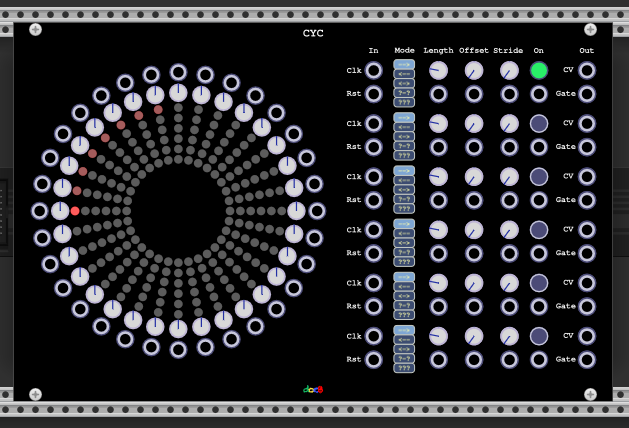
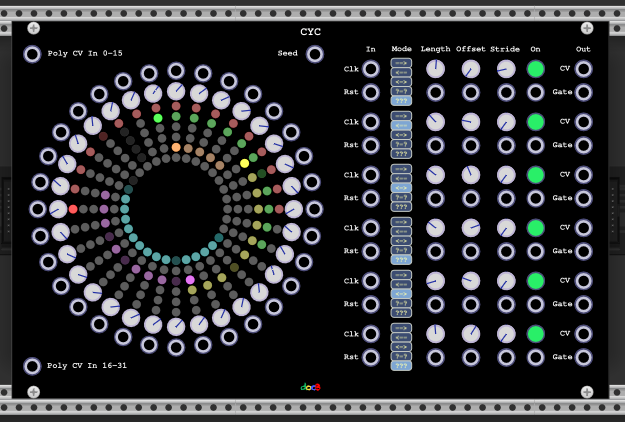
updated readme and enhancements

Changed region(s): [[0.0, 0.0, 1.0, 0.9858], [0.0, 0.154, 0.5168, 0.8626]]

diff --git a/src/CYC.cpp b/src/CYC.cpp
@@ -137,11 +137,6 @@ struct Track {
   }
 
   float getCV(int step) {
-    if(module->inputs[M::CV_INPUT+step].isConnected()) {
-      float v=module->inputs[M::CV_INPUT+step].getVoltage();
-      module->getParamQuantity(M::CV_PARAM+step)->setValue(v);
-      return v;
-    }
     return module->params[M::CV_PARAM+step].getValue();
   }
 
@@ -150,6 +145,14 @@ struct Track {
       bool advance=false;
       if(rstTrigger.process(module->inputs[M::RST_INPUT+nr].getVoltage())) {
         rstPulse.trigger(1e-3f);
+        float seedParam=0;
+        if(module->inputs[M::SEED_INPUT].isConnected()) {
+          seedParam=module->inputs[M::SEED_INPUT].getVoltage(nr);
+          seedParam = floorf(seedParam*10000)/10000;
+          seedParam/=10.f;
+        }
+        auto seedInput = (unsigned long long)(floor((double)seedParam*(double)ULONG_MAX));
+        rnd.reset(seedInput);
         reset();
         advance=true;
       }
@@ -215,7 +218,7 @@ struct CYC : Module {
     RUN_MODE_PARAM,OFFSET_PARAM=RUN_MODE_PARAM+NUM_TRACK,LENGTH_PARAM=OFFSET_PARAM+NUM_TRACK,STRIDE_PARAM=LENGTH_PARAM+NUM_TRACK,TRACK_ON_PARAM=STRIDE_PARAM+NUM_TRACK,ON_OFF_PARAM=TRACK_ON_PARAM+NUM_TRACK,CV_PARAM=ON_OFF_PARAM+NUM_TRACK*32,PARAMS_LEN=CV_PARAM+32
   };
   enum InputId {
-    CLK_INPUT,RST_INPUT=CLK_INPUT+NUM_TRACK,OFFSET_INPUT=RST_INPUT+NUM_TRACK,LENGTH_INPUT=OFFSET_INPUT+NUM_TRACK,STRIDE_INPUT=LENGTH_INPUT+NUM_TRACK,CV_INPUT=STRIDE_INPUT+NUM_TRACK,INPUTS_LEN=CV_INPUT+32
+    CLK_INPUT,RST_INPUT=CLK_INPUT+NUM_TRACK,OFFSET_INPUT=RST_INPUT+NUM_TRACK,LENGTH_INPUT=OFFSET_INPUT+NUM_TRACK,STRIDE_INPUT=LENGTH_INPUT+NUM_TRACK,CV_INPUT=STRIDE_INPUT+NUM_TRACK,CV_POLY_0_15_INPUT=CV_INPUT+32,CV_POLY_16_31_INPUT,SEED_INPUT,INPUTS_LEN
   };
   enum OutputId {
     CV_OUTPUT,GATE_OUTPUT=CV_OUTPUT+NUM_TRACK,OUTPUTS_LEN=GATE_OUTPUT+NUM_TRACK
@@ -230,11 +233,15 @@ struct CYC : Module {
                                 {this,4},
                                 {this,5}};
   RND rnd;
-
+  float min=-2;
+  float max=2;
+  bool quantize=false;
+  int dirty=0; // dirty hack
+  dsp::ClockDivider paramDivider;
   CYC() {
     config(PARAMS_LEN,INPUTS_LEN,OUTPUTS_LEN,LIGHTS_LEN);
     for(int k=0;k<32;k++) {
-      configParam(CV_PARAM+k,-2,2,0,"CV "+std::to_string(k+1));
+      configParam(CV_PARAM+k,min,2,max,"CV "+std::to_string(k+1));
 
       configInput(CV_INPUT+k,"CV "+std::to_string(k+1));
       for(int j=0;j<NUM_TRACK;j++) {
@@ -255,9 +262,28 @@ struct CYC : Module {
       configInput(STRIDE_INPUT+k,"Stride "+std::to_string(k+1));
       configSwitch(TRACK_ON_PARAM+k,0,1,k==0?1:0,"Track "+std::to_string(k+1),{"Off","On"});
     }
+    configInput(CV_POLY_0_15_INPUT,"Poly CV 0-15");
+    configInput(CV_POLY_16_31_INPUT,"Poly CV 0-15");
+    paramDivider.setDivision(32);
   }
 
   void process(const ProcessArgs &args) override {
+    if(paramDivider.process()) {
+      for(int step=0;step<32;step++) {
+        if(step<16&&inputs[CV_POLY_0_15_INPUT].isConnected()) {
+          float v=inputs[CV_POLY_0_15_INPUT].getVoltage(step);
+          getParamQuantity(CV_PARAM+step)->setValue(v);
+        }
+        if(step>=16&&inputs[CV_POLY_16_31_INPUT].isConnected()) {
+          float v=inputs[CV_POLY_16_31_INPUT].getVoltage(step-16);
+          getParamQuantity(CV_PARAM+step)->setValue(v);
+        }
+        if(inputs[CV_INPUT+step].isConnected()) {
+          float v=inputs[CV_INPUT+step].getVoltage();
+          getParamQuantity(CV_PARAM+step)->setValue(v);
+        }
+      }
+    }
     for(int k=0;k<NUM_TRACK;k++) {
       tracks[k].process(args);
     }
@@ -269,6 +295,18 @@ struct CYC : Module {
     }
   }
 
+  void reconfig() {
+    for(int nr=0;nr<32;nr++) {
+      float value=getParamQuantity(CV_PARAM+nr)->getValue();
+      if(value>max)
+        value=max;
+      if(value<min)
+        value=min;
+      configParam(CV_PARAM+nr,min,max,0,"CV "+std::to_string(nr+1));
+      getParamQuantity(CV_PARAM+nr)->setValue(value);
+      dirty=32;
+    }
+  }
 
 };
 template <typename TBase = app::ModuleLightWidget>
@@ -371,7 +409,9 @@ struct CYCWidget : ModuleWidget {
       float x=cosf(alpha);
       float y=-sinf(alpha);
       addInput(createInputCentered<SmallPort>(mm2px(Vec(x*47+cx,y*47+cy)),module,CYC::CV_INPUT+(31-k)));
-      addParam(createParamCentered<TrimbotWhite>(mm2px(Vec(x*40+cx,y*40+cy)),module,CYC::CV_PARAM+(31-k)));
+      auto cvKnob=createParamCentered<MKnob<CYC>>(mm2px(Vec(x*40+cx,y*40+cy)),module,CYC::CV_PARAM+(31-k));
+      cvKnob->module=module;
+      addParam(cvKnob);
       int j=0;
       addParam(createParamCentered<SmallGrayRoundButton>(mm2px(Vec(x*(r-(d*j))+cx,y*(r-(d*j))+cy)),module,CYC::ON_OFF_PARAM+j*32+(31-k)));
       j++;
@@ -384,23 +424,6 @@ struct CYCWidget : ModuleWidget {
       addParam(createParamCentered<SmallGrayRoundButton>(mm2px(Vec(x*(r-(d*j))+cx,y*(r-(d*j))+cy)),module,CYC::ON_OFF_PARAM+j*32+(31-k)));
       j++;
       addParam(createParamCentered<SmallGrayRoundButton>(mm2px(Vec(x*(r-(d*j))+cx,y*(r-(d*j))+cy)),module,CYC::ON_OFF_PARAM+j*32+(31-k)));
-      j++;
-      /*
-      addParam(createParamCentered<SmallRoundButton>(mm2px(Vec(x*r+cx,y*r+cy)),module,CYC::ON_OFF_PARAM+(31-k)));
-      addParam(createLightParamCentered<MLightButton<RedLight>>(mm2px(Vec(x*(r-(d*j))+cx,y*(r-(d*j))+cy)),module,CYC::ON_OFF_PARAM+j*32+(31-k),j*32+(31-k)));
-      j++;
-      addParam(createLightParamCentered<MLightButton<YellowLight>>(mm2px(Vec(x*(r-(d*j))+cx,y*(r-(d*j))+cy)),module,CYC::ON_OFF_PARAM+j*32+(31-k),j*32+(31-k)));
-      j++;
-      addParam(createLightParamCentered<MLightButton<BlueLight>>(mm2px(Vec(x*(r-(d*j))+cx,y*(r-(d*j))+cy)),module,CYC::ON_OFF_PARAM+j*32+(31-k),j*32+(31-k)));
-      j++;
-      addParam(createLightParamCentered<MLightButton<GreenLight>>(mm2px(Vec(x*(r-(d*j))+cx,y*(r-(d*j))+cy)),module,CYC::ON_OFF_PARAM+j*32+(31-k),j*32+(31-k)));
-      j++;
-      addParam(createLightParamCentered<MLightButton<WhiteLight>>(mm2px(Vec(x*(r-(d*j))+cx,y*(r-(d*j))+cy)),module,CYC::ON_OFF_PARAM+j*32+(31-k),j*32+(31-k)));
-      j++;
-      addParam(createLightParamCentered<MLightButton<PurpleLight>>(mm2px(Vec(x*(r-(d*j))+cx,y*(r-(d*j))+cy)),module,CYC::ON_OFF_PARAM+j*32+(31-k),j*32+(31-k)));
-      j++;
-      addParam(createParamCentered<SmallRoundButton>(mm2px(Vec(x*r+cx,y*r+cy)),module,CYC::ON_OFF_PARAM+(31-k)));
-      */
       j=0;
       addChild(createLightCentered<DBLight9px<DBRedLight>>(mm2px(Vec(x*(r-(d*j))+cx,y*(r-(d*j))+cy)),module,j*32+(31-k)));
       j++;
@@ -439,12 +462,30 @@ struct CYCWidget : ModuleWidget {
       addOutput(createOutput<SmallPort>(mm2px(Vec(191.25,y+8)),module,CYC::GATE_OUTPUT+k));
       y+=18;
     }
+    addInput(createInput<SmallPort>(mm2px(Vec(4,TY(114))),module,CYC::CV_POLY_0_15_INPUT));
+    addInput(createInput<SmallPort>(mm2px(Vec(4,TY(8))),module,CYC::CV_POLY_16_31_INPUT));
+    addInput(createInput<SmallPort>(mm2px(Vec(100,TY(114))),module,CYC::SEED_INPUT));
   }
 
   void appendContextMenu(Menu *menu) override {
     CYC *module=dynamic_cast<CYC *>(this->module);
     assert(module);
-    menu->addChild(new MenuEntry);
+    menu->addChild(new MenuSeparator);
+    std::vector <MinMaxRange> ranges={{-3,3},
+                                      {-2,2},
+                                      {-1,1},
+                                      {0, 1},
+                                      {0, 2}};
+    auto rangeSelectItem=new RangeSelectItem<CYC>(module,ranges);
+    rangeSelectItem->text="Range";
+    rangeSelectItem->rightText=string::f("%d/%dV",(int)module->min,(int)module->max)+"  "+RIGHT_ARROW;
+    menu->addChild(rangeSelectItem);
+    menu->addChild(createCheckMenuItem("Quantize","",[=]() {
+      return module->quantize;
+    },[=]() {
+      module->quantize=!module->quantize;
+    }));
+
     menu->addChild(new CYCRandomize(module,RNDCV,"Randomize CV"));
     //menu->addChild(new RandomizeItem(module,RNDBUS,"Randomize Bus"));
     //menu->addChild(new RandomizeItem(module,RNDLOAD,"Randomize Load"));

diff --git a/src/Klee.cpp b/src/Klee.cpp
@@ -248,10 +248,10 @@ struct Klee : Module {
     }
     if(advance) {
       for(int k=0;k<16;k++) {
-        if(inputs[POLY_CV_INPUT].isConnected()) {
-          getParamQuantity(CV_PARAM+k)->setValue(inputs[POLY_CV_INPUT].getVoltage(k));
-        } else if(inputs[CV_INPUT+k].isConnected()) {
+        if(inputs[CV_INPUT+k].isConnected()) {
           getParamQuantity(CV_PARAM+k)->setValue(inputs[CV_INPUT+k].getVoltage());
+        } else if(inputs[POLY_CV_INPUT].isConnected()) {
+          getParamQuantity(CV_PARAM+k)->setValue(inputs[POLY_CV_INPUT].getVoltage(k));
         }
         if(inputs[TAB_INPUT].isConnected()) {
           getParamQuantity(TAB_PARAMS+k)->setValue(inputs[TAB_INPUT].getVoltage(k)>1.f);

diff --git a/src/M851.cpp b/src/M851.cpp
@@ -69,9 +69,9 @@ struct M851 : Module {
   SlewLimiter sl;
   float min=-2;
   float max=2;
-  bool quantize;
+  bool quantize=false;
   bool gate=false;
-  int dirty; // dirty hack
+  int dirty=0; // dirty hack
 
   bool gateOn() {
     switch((int)params[GATE_MODE_PARAM+stepCounter%8].getValue()) {
@@ -368,7 +368,7 @@ struct M851Widget : ModuleWidget {
   void appendContextMenu(Menu *menu) override {
     M851 *module=dynamic_cast<M851 *>(this->module);
     assert(module);
-    menu->addChild(new MenuEntry);
+    menu->addChild(new MenuSeparator);
 
     std::vector <MinMaxRange> ranges={{-3,3},
                                       {-2,2},

diff --git a/README.md b/README.md
@@ -14,7 +14,7 @@ But every other module or combinations which outputs step functions (e.g. S&H) c
 ### AG
 ![](images/AG.png?raw=true)
 
-- The AG module provides 100 voltage addressable polyphonic gates. 
+- The AG module provides 100 voltage addressable polyphonic gates or gate patterns. 
 - The number of channels can be set in the menu. 
 - The address input recognizes 0.1V per step.
 - If the Edit button is pressed the module behaves like the address input is not connected i.e. the steps 
@@ -57,7 +57,7 @@ If the step param is set to 0.1V ACC can be used to drive AG.
 - The chord module outputs behaves like the corresponding ones in the MIDI CV module.
 - In the menu the number of polyphonic channels and the polyphony modes Rotate,Reset and Reuse for the channel assignment can be configured.
 - The Reorder action in the menu causes the chord to be ordered in the polyphonic channels from the lowest note to the highest.
-- The Auto-Reorder option causes the Reorder action on every change and the polyphony odes are ignored. 
+- The Auto-Reorder option causes the Reorder action on every change and the polyphony modes are ignored. 
 - The Auto-Channel option causes the outputs only have as many channels as key buttons are pressed.
 In this case the Polyphonic Channels setting is ignored.
 
@@ -96,16 +96,18 @@ Here are some modules which are suited for a clocked addressing of the TD4 but n
 
 ![](images/P4.png?raw=true)
 - A single P4 makes 4 Step Sequences inside an address space of 4-32 Steps (Size Knob). 
-- TD4 has a size of 16.
+In the case of driving TD4 the size would be 16.
 - The Ofs parameter controls the starting step inside the address space.
 - The Perm parameter sets one of the 24 possible 4-Step permutations.
 - If Y is set in the dir parameter the output is: `(step%4)*4+step/4` which causes moving up or down
-  in TD4
+  in TD4 and other grid sequencers (see below)
 - It can be used to simulate the 4-Step sequencers of the Z8000, but it can do a lot more sequences.
 
 
 ##### Some patching to illustrate
 NB: The videos have sound which could be turned on.
+
+###### Simulating a Z8000 Sequencer
 
 This example illustrates the use of four P4. 
 The second (from right) connected P4 has an offset of 4, so it will go through the second row.
@@ -116,6 +118,7 @@ The use of AG is also shown to mute some steps via the Gate inputs.
 
 https://user-images.githubusercontent.com/1134412/167461678-ca6a8c83-2a86-48d4-830f-3fba07001cec.mp4
 
+###### A complex 16-step sequence
 
 This example shows how to make a complex 16-step sequence with three P4 modules.
 Only the right most P4 is connected to the TD4. The left most is clocked x4 and controls the 
@@ -126,6 +129,7 @@ https://user-images.githubusercontent.com/1134412/167403636-a7df029f-7f20-447d-9
 
 
 #### P16
+
 ![](images/P16.png?raw=true)
 
 The P16 module provides 100 predefined 16-Step Sequences (ok, some kind of tiny collection compared to
@@ -202,7 +206,7 @@ There is additionally an expander C42E which provides additional outputs:
   - M-A (MD-AD)
   - A-M (AD-MD)
   
-A general alternative is to combine the outputs via the Sum module and its SE Expander
+A general alternative is to combine the outputs via the Sum module (see below) and its SE Expander
 or any other module which processes multiple polyphonic inputs.
 
 #### Generate Chaos
@@ -250,7 +254,7 @@ https://user-images.githubusercontent.com/1134412/167783412-6dd213e9-b0b4-4d48-8
 ![](images/TheMatrix.png?raw=true)
 
 Similar to C42 TheMatrix provides a grid of size 32x32 where up to 16 play heads can be placed
-via the CvX/Cvy params and inputs. But on each cell there can be edited an ascii char in the
+via the CvX/CvY params and inputs. But on each cell there can be edited an ascii char in the
 range from 32 (space) to 126 (~).
 The polyphonic CV output is built in the following way if a play head is on a cell which 
 is no space:
@@ -294,7 +298,7 @@ First an integer number is looked up from the following table:
 Then this number is multiplied by the level parameter value and passed to the output.
 
 So if the level parameter is set to 1/12 then we have a semi note range from
-C#-2 to B-3 and the letter A denotes A-2. 
+C#-2 to B-3 and the letter 'A' denotes A-2. 
 
 A space will cause that the gate output is set to 0V, every other character causes the gate
 output set to 10V.
@@ -302,7 +306,7 @@ output set to 10V.
 This seems to be a bit complicated, but there are some editing features which make life easy:
 
 - connect a midi keyboard and the  V/Oct of the MIDI CV Module to the Rec CV input 
-  and the Retrigger output to the Rec trg input. On pressing a note on the keyboard
+  and the Retrigger output to the Rec Trg input. On pressing a note on the keyboard
   the corresponding ascii char will be inserted so that the cell will output the same note
   if the level is set to 1/12.
 - If the cursor is on a cell then the Keys PageUp and PageDown will increase/decrease the current character
@@ -333,7 +337,7 @@ Differences/Additions to the original:
 - It does not provide 4 Tracks but a chainable expander to have an arbitrary count of tracks.
 - Polyphonic inputs for the probability and CV Values are provided
 - The CV Range can be adjusted in the menu
-- Quantize to semis cna be turned on in the menu.
+- Quantize to semis can be turned on in the menu.
 - The probability for skipping a step is in the range of 0-100% and independent of the Glide and Rst.
 - If the Rst is on and the step is not skipped then it resets the sequence to the first step in forward and pendulum mode
   and to the last step in backward mode.
@@ -367,7 +371,7 @@ The additional features:
   - A Gate output which is high if the corresponding step is active.
   - A Clock output which represents the input clock if the gate is high.
 - Feedback Tabs (to make this module complex in a further dimension):
-  - Beside the lights there are small buttons for turning on a feedback step.
+  - Beside the lights there are small buttons for turning on a feedback tab for the step.
   - This turns the shift register into a linear feedback shift register LFSR (see e.g. wikipedia).
   - A polyphonic feedback tab input can be used to set the tabs. 
   - The feedback is only active if the On button on right side of the input is on.
@@ -382,6 +386,7 @@ This module is a reimplementation of the M581 of the XOR plugin.
 - With the default values this is a normal 8-step sequencer. 
 - There are additional CV inputs which take over the step CV value.
 - The Knob range can be changed in the menu.
+- The CV Values can be quantized to semi steps in the menu.
 - The Gate output always represents the clock input  (there is no gate length parameter
 as in the originals).
 - There are five play modes: forward, backward, pendulum,random walk and random.
@@ -391,7 +396,7 @@ The step then will stay for the number of repetitions. This will make the sequen
 (however the sequence length can be held constant via the rst input).
 Now the gate mode parameter comes into play:
 - '-----' means no gate at all (works also for one repetition)
-- '*----' means only a single gate at the beginning
+- '*----' means only a single gate at the beginning (the default)
 - '*****' for every repetition there will be a gate
 - '\*-\*-*' for repetition 1,3,5,7 there will be a gate
 - '\*--\*-' for repetition 1,4,7 there will be a gate
@@ -399,7 +404,7 @@ Now the gate mode parameter comes into play:
 - '?????' gates are fired randomly
 - '▪▪▪▪▪' the gate will stay high for gliding to the next step
 
-If the glide button is on, there will be a portamento.
+If the glide button is on, there will be a portamento with speed adjustable by the glider knob.
 If the step is turned off it will be skipped.
 
 ### CYC
@@ -407,8 +412,13 @@ If the step is turned off it will be skipped.
 CYC is reimplementation of the Spiral sequencer of the XOR plugin.
 
 - CYC is a 6 track cyclic step sequencer on a common 32 knob/input value space.
+- The Knob range can be changed in the menu.
+- The CV Values can be quantized to semi steps in the menu.
+- There are two polyphonic CV inputs for step 0-15 and 16-31
 - For each track the play mode (see M851), the offset (0-31), length (1-32) and stride (1-8) can be configured.
-- For each track the steps can be muted/unmuted by clicking on the step light
+- For each track the steps can be muted/unmuted by clicking on the step light.
+- With the polyphonic seed input a random seed (by setting channel 1-6) can be set to
+obtain the same sequence on every reset if the one of the random modes is used.
 
 ## Utilities
 
@@ -417,7 +427,7 @@ CYC is reimplementation of the Spiral sequencer of the XOR plugin.
 
 This module does the same as Sum Mk 3 from the ML Modules plugin, 
 but it has 12 polyphonic inputs and a chainable expander which reduces the amount of cables if
-different sums are built from the same inputs.
+different sums are built from the same inputs. 
 
 ### CV
 ![](images/CV.png?raw=true)
@@ -425,10 +435,12 @@ different sums are built from the same inputs.
 CV is another discrete CV value source. The number on the selected button is multiplied by the level
 value and passed to the output. The original idea for this module was born after watching
 the video about the octave sequencer from Jakub Ciupinski. With the CV module it looks like this:
+
 ![](images/CVSeq.png?raw=true)
 
-It can be used without quantizer as the level can be set to 1/12.
-
+It basically behaves like the OCT module of the Fundamental plugin.
+It can be used without a quantizer as the level can be set to 1/12.
+ 
 ### PwmClock
 ![](images/PwmClock.png?raw=true)
 
